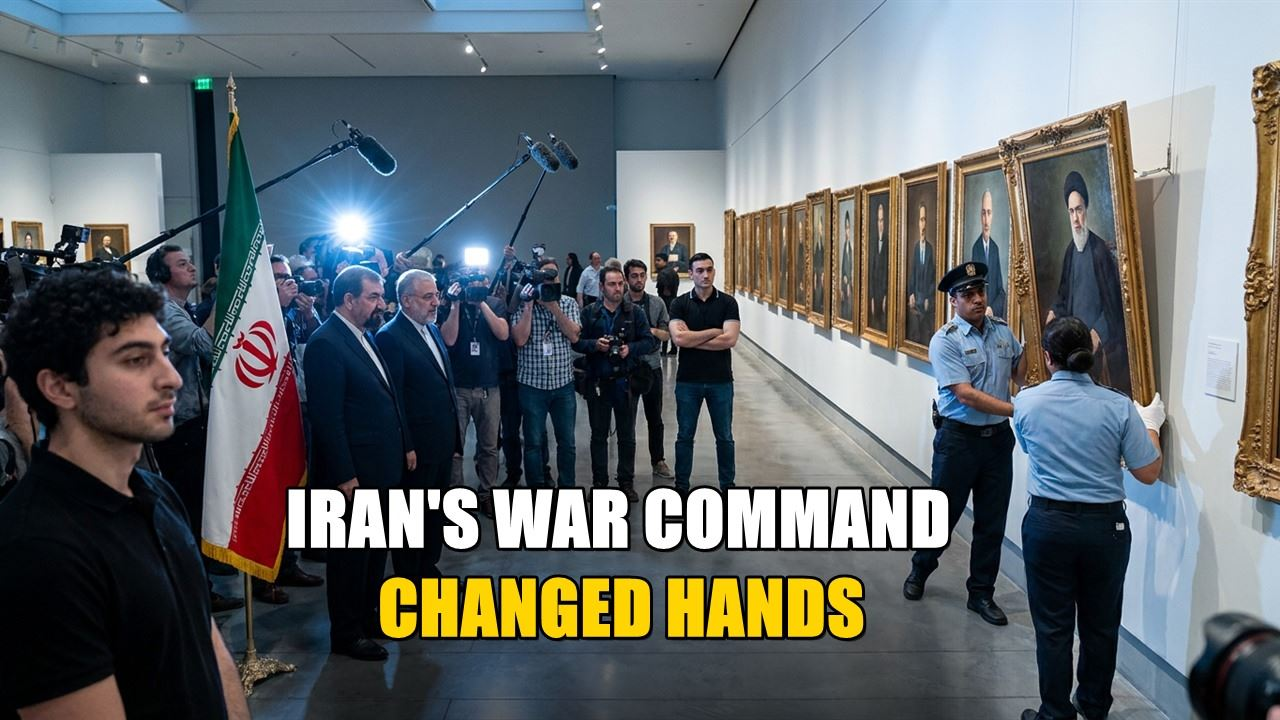
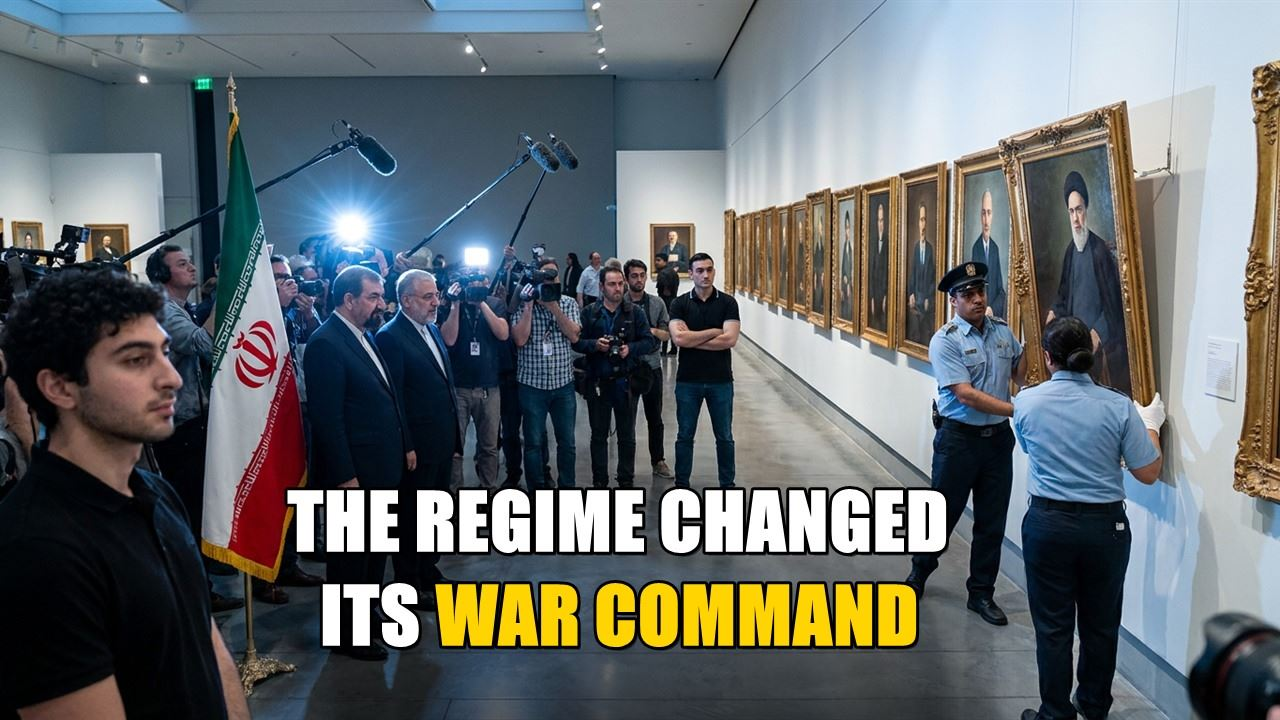
dashboards 2026-08-23T09:54:00Z

Changed region(s): [[0.2188, 0.6722, 0.75, 0.9167]]

diff --git a/ali-costreams.html b/ali-costreams.html
@@ -270,13 +270,13 @@ dialog img{display:block;max-width:94vw;max-height:88vh}
 </header>
 
 <!-- Self-checking freshness banner: the page compares its own build time against the clock. -->
-<div id="freshbar" class="fresh" data-built="2026-08-23T09:20:19Z">
+<div id="freshbar" class="fresh" data-built="2026-08-23T09:43:07Z">
   <div class="fresh-l">
-    <b id="freshtitle">This page was updated Sun Aug 23, 17:20</b>
+    <b id="freshtitle">This page was updated Sun Aug 23, 17:43</b>
     <span id="freshage"></span>
   </div>
-  <span class="newtoday" id="newtoday" data-new="3"
-        title="Clips whose covers finished in the last 24 hours">New today: 3</span>
+  <span class="newtoday" id="newtoday" data-new="4"
+        title="Clips whose covers finished in the last 24 hours">New today: 4</span>
   <button type="button" id="freshreload" class="fresh-btn" hidden>Get the newest version</button>
 </div>
 
@@ -3147,10 +3147,10 @@ Talk to Ali in his group calls: https://www.skool.com/libertypolitics/about?ref=
     <div class="vidwhy" hidden><textarea class="vidtext" rows="2" placeholder="Why are you not using this video? e.g. it starts in the middle of a sentence; it repeats the same point twice; the ending is cut off"></textarea></div>
     <div class="means none" aria-live="polite">Not answered yet.</div>
   </div>
-  <div class="cliptime">Added Aug 15 &middot; Covers made Aug 15 &middot; Ready Aug 20 &middot; <b>3:08</b> <span class="nomid">no mid-roll</span></div>
+  <div class="cliptime">Added Aug 15 &middot; Covers made Aug 23 &middot; Ready Aug 23 &middot; <b>3:08</b> <span class="nomid">no mid-roll</span></div>
   <div class="covers">
-    <div class="cov" data-var="A" data-head="THE CIA SAYS MOJTABA IS ALIVE" data-title="THE CIA SAYS MOJTABA IS ALIVE">
-      <button class="zoombtn" type="button" aria-label="Enlarge cover A"><img src="img/2026-08-15-ali-S1-A.jpg" alt="Cover A: THE CIA SAYS MOJTABA IS ALIVE" loading="lazy"><span class="zoomhint">Tap to enlarge</span></button>
+    <div class="cov" data-var="A" data-head="THE CIA SAYS THE HEIR IS ALIVE" data-title="THE CIA SAYS MOJTABA IS ALIVE">
+      <button class="zoombtn" type="button" aria-label="Enlarge cover A"><img src="img/2026-08-15-ali-S1-A.jpg" alt="Cover A: THE CIA SAYS THE HEIR IS ALIVE" loading="lazy"><span class="zoomhint">Tap to enlarge</span></button>
       <div class="covdec">
         <div class="decq">&#128444;&#65039; This cover A</div>
         <div class="decbtns">
@@ -3253,7 +3253,7 @@ Talk to Ali in his group calls: https://www.skool.com/libertypolitics/about?ref=
     <div class="vidwhy" hidden><textarea class="vidtext" rows="2" placeholder="Why are you not using this video? e.g. it starts in the middle of a sentence; it repeats the same point twice; the ending is cut off"></textarea></div>
     <div class="means none" aria-live="polite">Not answered yet.</div>
   </div>
-  <div class="cliptime">Added Aug 15 &middot; Covers made Aug 16 &middot; Ready Aug 20 &middot; <b>5:43</b> <span class="nomid">no mid-roll</span></div>
+  <div class="cliptime">Added Aug 15 &middot; Covers made Aug 16 &middot; Ready Aug 23 &middot; <b>5:43</b> <span class="nomid">no mid-roll</span></div>
   <div class="covers">
     <div class="cov" data-var="A" data-head="THE UAE PAID AND GOT HIT ANYWAY" data-title="THE UAE PAID AND GOT HIT ANYWAY">
       <button class="zoombtn" type="button" aria-label="Enlarge cover A"><img src="img/2026-08-15-ali-S2-A.jpg" alt="Cover A: THE UAE PAID AND GOT HIT ANYWAY" loading="lazy"><span class="zoomhint">Tap to enlarge</span></button>
@@ -3359,7 +3359,7 @@ Talk to Ali in his group calls: https://www.skool.com/libertypolitics/about?ref=
     <div class="vidwhy" hidden><textarea class="vidtext" rows="2" placeholder="Why are you not using this video? e.g. it starts in the middle of a sentence; it repeats the same point twice; the ending is cut off"></textarea></div>
     <div class="means none" aria-live="polite">Not answered yet.</div>
   </div>
-  <div class="cliptime">Added Aug 15 &middot; Covers made Aug 21 &middot; Ready Aug 20 &middot; <b>3:45</b> <span class="nomid">no mid-roll</span></div>
+  <div class="cliptime">Added Aug 15 &middot; Covers made Aug 21 &middot; Ready Aug 23 &middot; <b>3:45</b> <span class="nomid">no mid-roll</span></div>
   <div class="covers">
     <div class="cov" data-var="A" data-head="SCOTT BESSENT PROMISES UNPRECEDENTED MEASURES" data-title="SCOTT BESSENT PROMISES UNPRECEDENTED MEASURES">
       <button class="zoombtn" type="button" aria-label="Enlarge cover A"><img src="img/2026-08-15-ali-S3-A.jpg" alt="Cover A: SCOTT BESSENT PROMISES UNPRECEDENTED MEASURES" loading="lazy"><span class="zoomhint">Tap to enlarge</span></button>
@@ -3441,7 +3441,7 @@ Talk to Ali in his group calls: https://www.skool.com/libertypolitics/about?ref=
     <div class="vidwhy" hidden><textarea class="vidtext" rows="2" placeholder="Why are you not using this video? e.g. it starts in the middle of a sentence; it repeats the same point twice; the ending is cut off"></textarea></div>
     <div class="means none" aria-live="polite">Not answered yet.</div>
   </div>
-  <div class="cliptime">Added Aug 15 &middot; Covers made Aug 15 &middot; Ready Aug 20 &middot; <b>3:14</b> <span class="nomid">no mid-roll</span></div>
+  <div class="cliptime">Added Aug 15 &middot; Covers made Aug 15 &middot; Ready Aug 23 &middot; <b>3:14</b> <span class="nomid">no mid-roll</span></div>
   <div class="covers">
     <div class="cov" data-var="A" data-head="A MAN IN TEHRAN ASKS TO BE ARMED" data-title="A MAN IN TEHRAN ASKS TO BE ARMED">
       <button class="zoombtn" type="button" aria-label="Enlarge cover A"><img src="img/2026-08-15-ali-S5-A.jpg" alt="Cover A: A MAN IN TEHRAN ASKS TO BE ARMED" loading="lazy"><span class="zoomhint">Tap to enlarge</span></button>
@@ -3523,7 +3523,7 @@ Talk to Ali in his group calls: https://www.skool.com/libertypolitics/about?ref=
     <div class="vidwhy" hidden><textarea class="vidtext" rows="2" placeholder="Why are you not using this video? e.g. it starts in the middle of a sentence; it repeats the same point twice; the ending is cut off"></textarea></div>
     <div class="means none" aria-live="polite">Not answered yet.</div>
   </div>
-  <div class="cliptime">Added Aug 15 &middot; Covers made Aug 19 &middot; Ready Aug 20 &middot; <b>13:40</b></div>
+  <div class="cliptime">Added Aug 15 &middot; Covers made Aug 19 &middot; Ready Aug 23 &middot; <b>13:40</b></div>
   <div class="covers">
     <div class="cov" data-var="A" data-head="THE REGIME LOOSENED HIJAB ON PURPOSE" data-title="THE REGIME LOOSENED HIJAB ON PURPOSE">
       <button class="zoombtn" type="button" aria-label="Enlarge cover A"><img src="img/2026-08-15-ali-S6-A.jpg" alt="Cover A: THE REGIME LOOSENED HIJAB ON PURPOSE" loading="lazy"><span class="zoomhint">Tap to enlarge</span></button>
@@ -3635,7 +3635,7 @@ Talk to Ali in his group calls: https://www.skool.com/libertypolitics/about?ref=
     <div class="vidwhy" hidden><textarea class="vidtext" rows="2" placeholder="Why are you not using this video? e.g. it starts in the middle of a sentence; it repeats the same point twice; the ending is cut off"></textarea></div>
     <div class="means none" aria-live="polite">Not answered yet.</div>
   </div>
-  <div class="cliptime">Added Aug 15 &middot; Covers made Aug 16 &middot; Ready Aug 20 &middot; <b>9:43</b></div>
+  <div class="cliptime">Added Aug 15 &middot; Covers made Aug 16 &middot; Ready Aug 23 &middot; <b>9:43</b></div>
   <div class="covers">
     <div class="cov" data-var="C" data-head="HOSSEIN TAEB IS MISSING FROM THE PHOTO" data-title="HOSSEIN TAEB IS MISSING FROM THE PHOTO">
       <button class="zoombtn" type="button" aria-label="Enlarge cover C"><img src="img/2026-08-15-ali-S8-C.jpg" alt="Cover C: HOSSEIN TAEB IS MISSING FROM THE PHOTO" loading="lazy"><span class="zoomhint">Tap to enlarge</span></button>
@@ -3719,7 +3719,7 @@ Talk to Ali in his group calls: https://www.skool.com/libertypolitics/about?ref=
     <div class="vidwhy" hidden><textarea class="vidtext" rows="2" placeholder="Why are you not using this video? e.g. it starts in the middle of a sentence; it repeats the same point twice; the ending is cut off"></textarea></div>
     <div class="means none" aria-live="polite">Not answered yet.</div>
   </div>
-  <div class="cliptime">Added Aug 15 &middot; Covers made Aug 20 &middot; Ready Aug 20 &middot; <b>11:18</b></div>
+  <div class="cliptime">Added Aug 15 &middot; Covers made Aug 20 &middot; Ready Aug 23 &middot; <b>11:18</b></div>
   <div class="covers">
     <div class="cov" data-var="A" data-head="THE IRGC IS STEALING IRAN&#39;S FUEL" data-title="THE IRGC IS STEALING IRAN&#39;S FUEL">
       <button class="zoombtn" type="button" aria-label="Enlarge cover A"><img src="img/2026-08-15-ali-S10-A.jpg" alt="Cover A: THE IRGC IS STEALING IRAN&#39;S FUEL" loading="lazy"><span class="zoomhint">Tap to enlarge</span></button>
@@ -7417,8 +7417,8 @@ Talk to Ali in his group calls: https://www.skool.com/libertypolitics/about?ref=
       </div>
       <div class="covwhy" hidden><textarea class="whytext" rows="2" placeholder="Why not this cover? A few words is enough. e.g. that is not Armin, text covers his face, the hosts are too small"></textarea></div>
     </div>
-    <div class="cov" data-var="B" data-head="IRAN&#39;S WAR COMMAND CHANGED HANDS" data-title="Zolghadr Is Removed and the Hardliners Move In">
-      <button class="zoombtn" type="button" aria-label="Enlarge cover B"><img src="img/2026-08-10-ali-S8-B.jpg" alt="Cover B: IRAN&#39;S WAR COMMAND CHANGED HANDS" loading="lazy"><span class="zoomhint">Tap to enlarge</span></button>
+    <div class="cov" data-var="B" data-head="THE REGIME CHANGED ITS WAR COMMAND" data-title="Zolghadr Is Removed and the Hardliners Move In">
+      <button class="zoombtn" type="button" aria-label="Enlarge cover B"><img src="img/2026-08-10-ali-S8-B.jpg" alt="Cover B: THE REGIME CHANGED ITS WAR COMMAND" loading="lazy"><span class="zoomhint">Tap to enlarge</span></button>
       <div class="covdec">
         <div class="decq">&#128444;&#65039; This cover B</div>
         <div class="decbtns">

diff --git a/guy-shows.html b/guy-shows.html
@@ -270,9 +270,9 @@ dialog img{display:block;max-width:94vw;max-height:88vh}
 </header>
 
 <!-- Self-checking freshness banner: the page compares its own build time against the clock. -->
-<div id="freshbar" class="fresh" data-built="2026-08-23T09:20:37Z">
+<div id="freshbar" class="fresh" data-built="2026-08-23T09:43:26Z">
   <div class="fresh-l">
-    <b id="freshtitle">This page was updated Sun Aug 23, 17:20</b>
+    <b id="freshtitle">This page was updated Sun Aug 23, 17:43</b>
     <span id="freshage"></span>
   </div>
   <span class="newtoday none" id="newtoday" data-new="0"

diff --git a/armin-shows.html b/armin-shows.html
@@ -270,9 +270,9 @@ dialog img{display:block;max-width:94vw;max-height:88vh}
 </header>
 
 <!-- Self-checking freshness banner: the page compares its own build time against the clock. -->
-<div id="freshbar" class="fresh" data-built="2026-08-23T09:31:08Z">
+<div id="freshbar" class="fresh" data-built="2026-08-23T09:53:58Z">
   <div class="fresh-l">
-    <b id="freshtitle">This page was updated Sun Aug 23, 17:31</b>
+    <b id="freshtitle">This page was updated Sun Aug 23, 17:53</b>
     <span id="freshage"></span>
   </div>
   <span class="newtoday" id="newtoday" data-new="4"

diff --git a/guy-picks.html b/guy-picks.html
@@ -1017,7 +1017,7 @@
     <textarea id="report" readonly></textarea>
     <p class="note">Copied. Paste it straight into Telegram.</p>
   </div>
-  <p class="built">50 topics across 6 streams. Updated 2026-08-23T09:20:38Z.</p>
+  <p class="built">50 topics across 6 streams. Updated 2026-08-23T09:43:27Z.</p>
 </div>
 
 <div class="bar">
